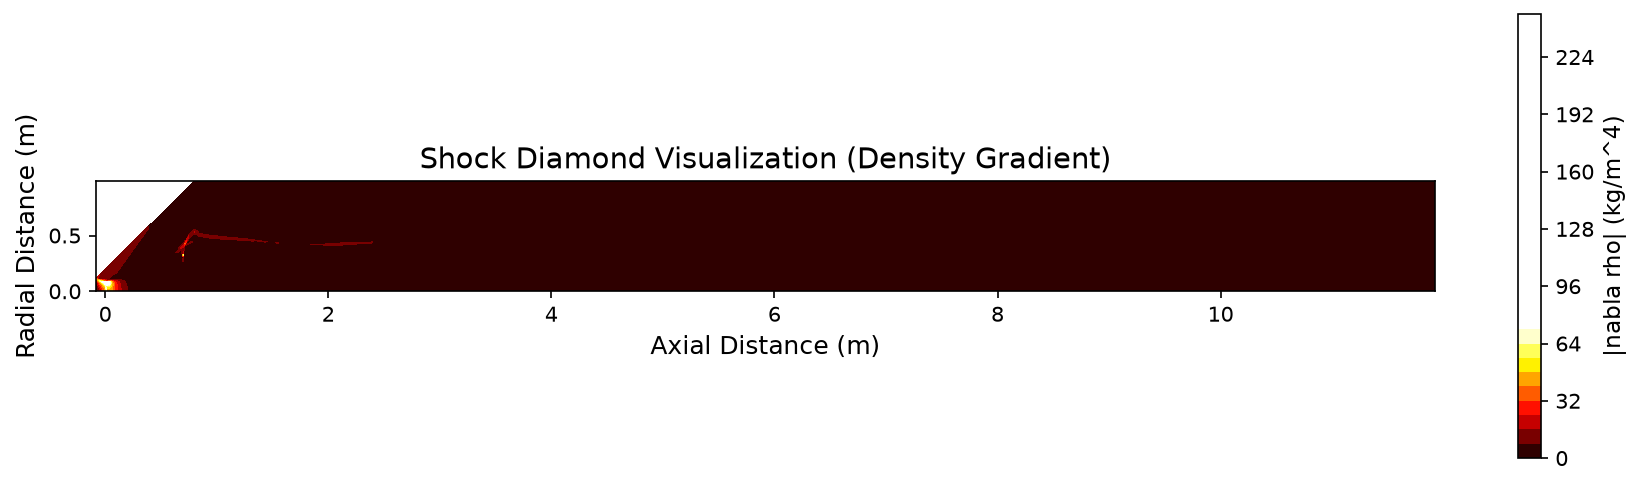
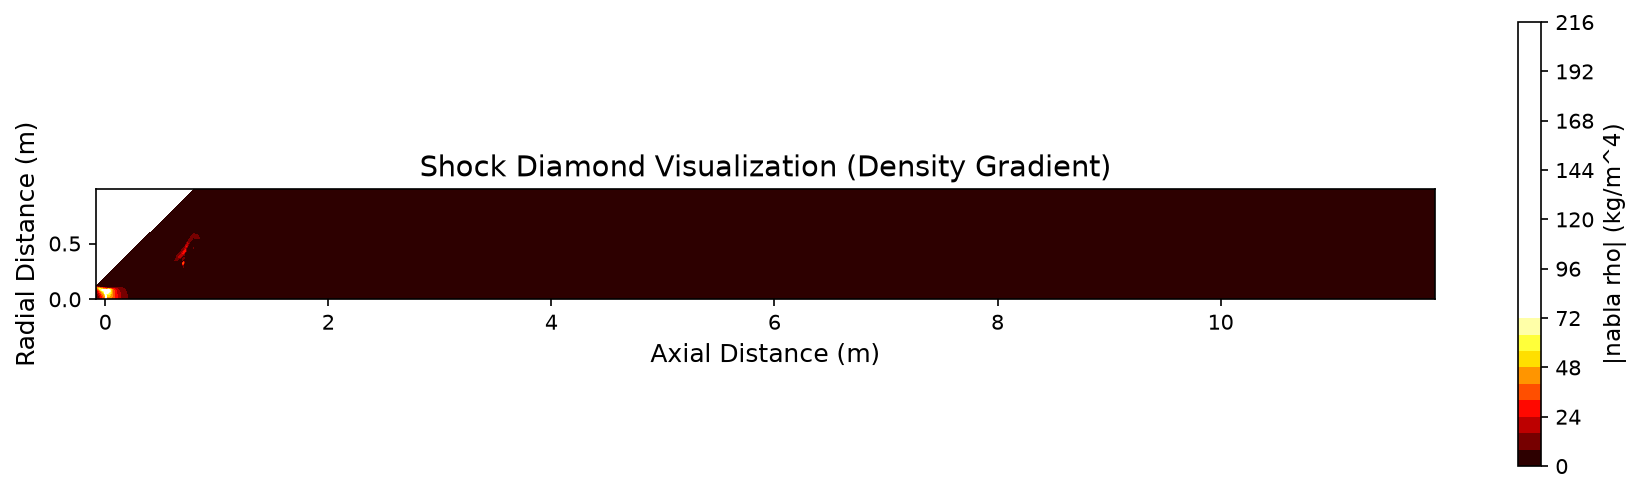
fix: revert to converged plume settings (200x60) with 2m domain trim
- Revert mesh to 200x60 (was 300x80 which caused divergence)
- Keep trimmed domain: plume_length_ratio 136 (11.2m, down from 13.9m)
- Add VECTORS Velocity array to mirrored VTK for ParaView streamlines
- Verify physics: centerline supersonic, 6 diamonds decaying, overexpanded jet
- Exit Mach 4.60 (theory 4.46, error 3.16%)

diff --git a/scripts/mirror_vtu_vtk.py b/scripts/mirror_vtu_vtk.py
@@ -62,11 +62,12 @@ def mirror_vtu_to_vtk(input_path: Path, output_path: Path) -> None:
         arrays['Density'] = np.concatenate([data.density, data.density])
     if data.temperature is not None:
         arrays['Temperature'] = np.concatenate([data.temperature, data.temperature])
-    if data.velocity_x is not None:
-        arrays['Velocity_x'] = np.concatenate([data.velocity_x, data.velocity_x])
-    if data.velocity_y is not None:
-        # Negate y-velocity for mirrored half
-        arrays['Velocity_y'] = np.concatenate([data.velocity_y, -data.velocity_y])
+    if data.velocity_x is not None and data.velocity_y is not None:
+        # Combine into VECTORS array (vx, vy, 0) for ParaView streamlines
+        vx = np.concatenate([data.velocity_x, data.velocity_x])
+        vy = np.concatenate([data.velocity_y, -data.velocity_y])  # negate for mirror
+        vz = np.zeros_like(vx)
+        arrays['Velocity'] = np.column_stack([vx, vy, vz])
 
     n_total_points = len(full_coords)
     n_total_cells = len(full_cells)

diff --git a/run_merlin.py b/run_merlin.py
@@ -29,13 +29,13 @@ CONFIG = EngineConfig(
     rans_cfl=0.05,
     rans_iterations=10000,
     # Extended plume domain for shock diamonds
-    # 17 exit diameters downstream (11.2m), 5 exit radii wide (1.65m)
-    plume_n_axial=300,
-    plume_n_normal=80,
+    # 17 exit diameters downstream (11.2m), 3 exit radii wide (0.99m)
+    plume_n_axial=200,
+    plume_n_normal=60,
     plume_cfl=0.05,
     plume_iterations=10000,
-    plume_length_ratio=136.0,   # 11.2m / 0.0825m throat_radius (trimmed 2m)
-    plume_radius_ratio=3.0,     # 3x exit radius (0.99m, narrower for better resolution)
+    plume_length_ratio=136.0,   # 11.2m / 0.0825m throat_radius (trimmed 2m from 160)
+    plume_radius_ratio=3.0,     # 3x exit radius (0.99m)
     sweep_expansion_ratios=(8.0, 12.0, 16.0, 20.0, 24.0),
     sweep_chamber_pressures=(5e6, 9.7e6, 15e6, 20e6),
     sweep_throat_radii=(0.05, 0.0825, 0.1, 0.15),
